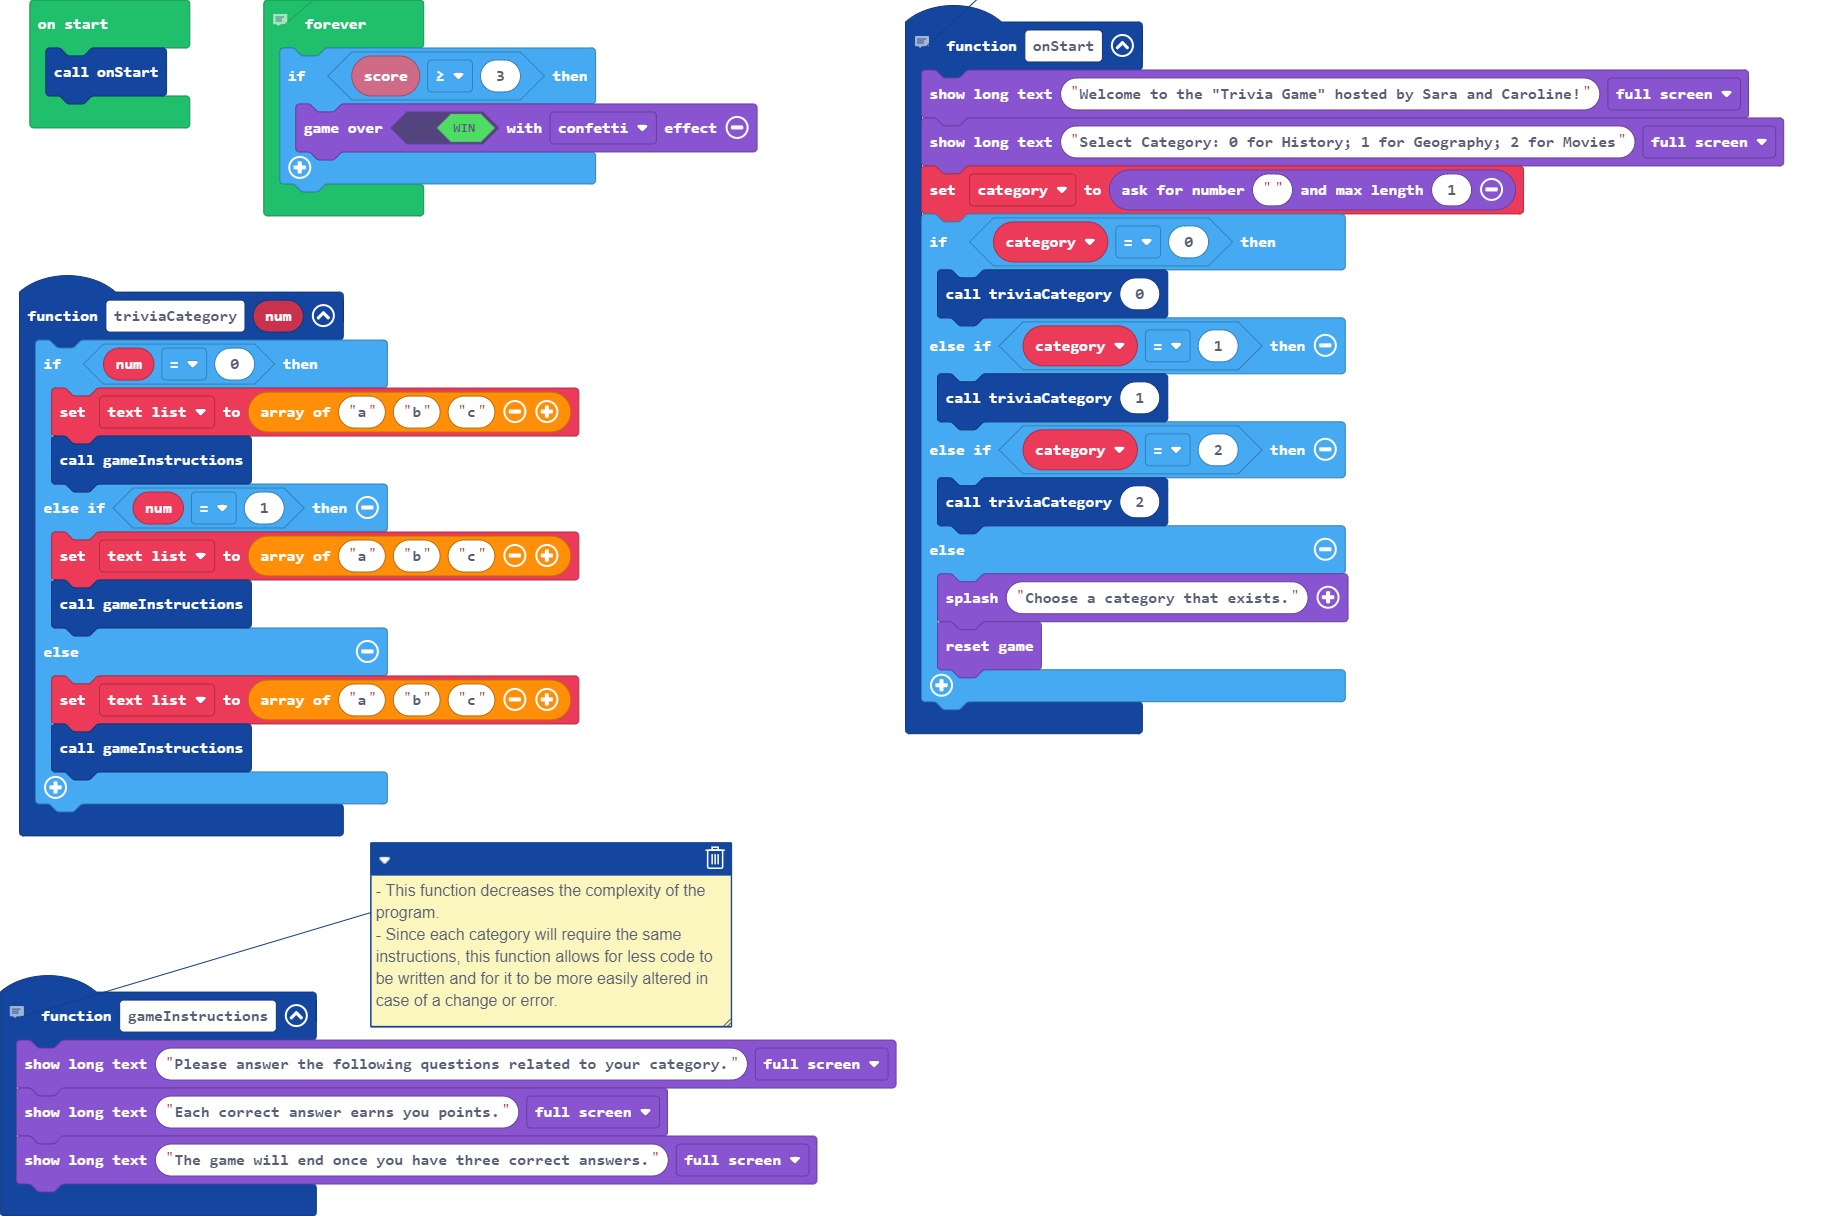
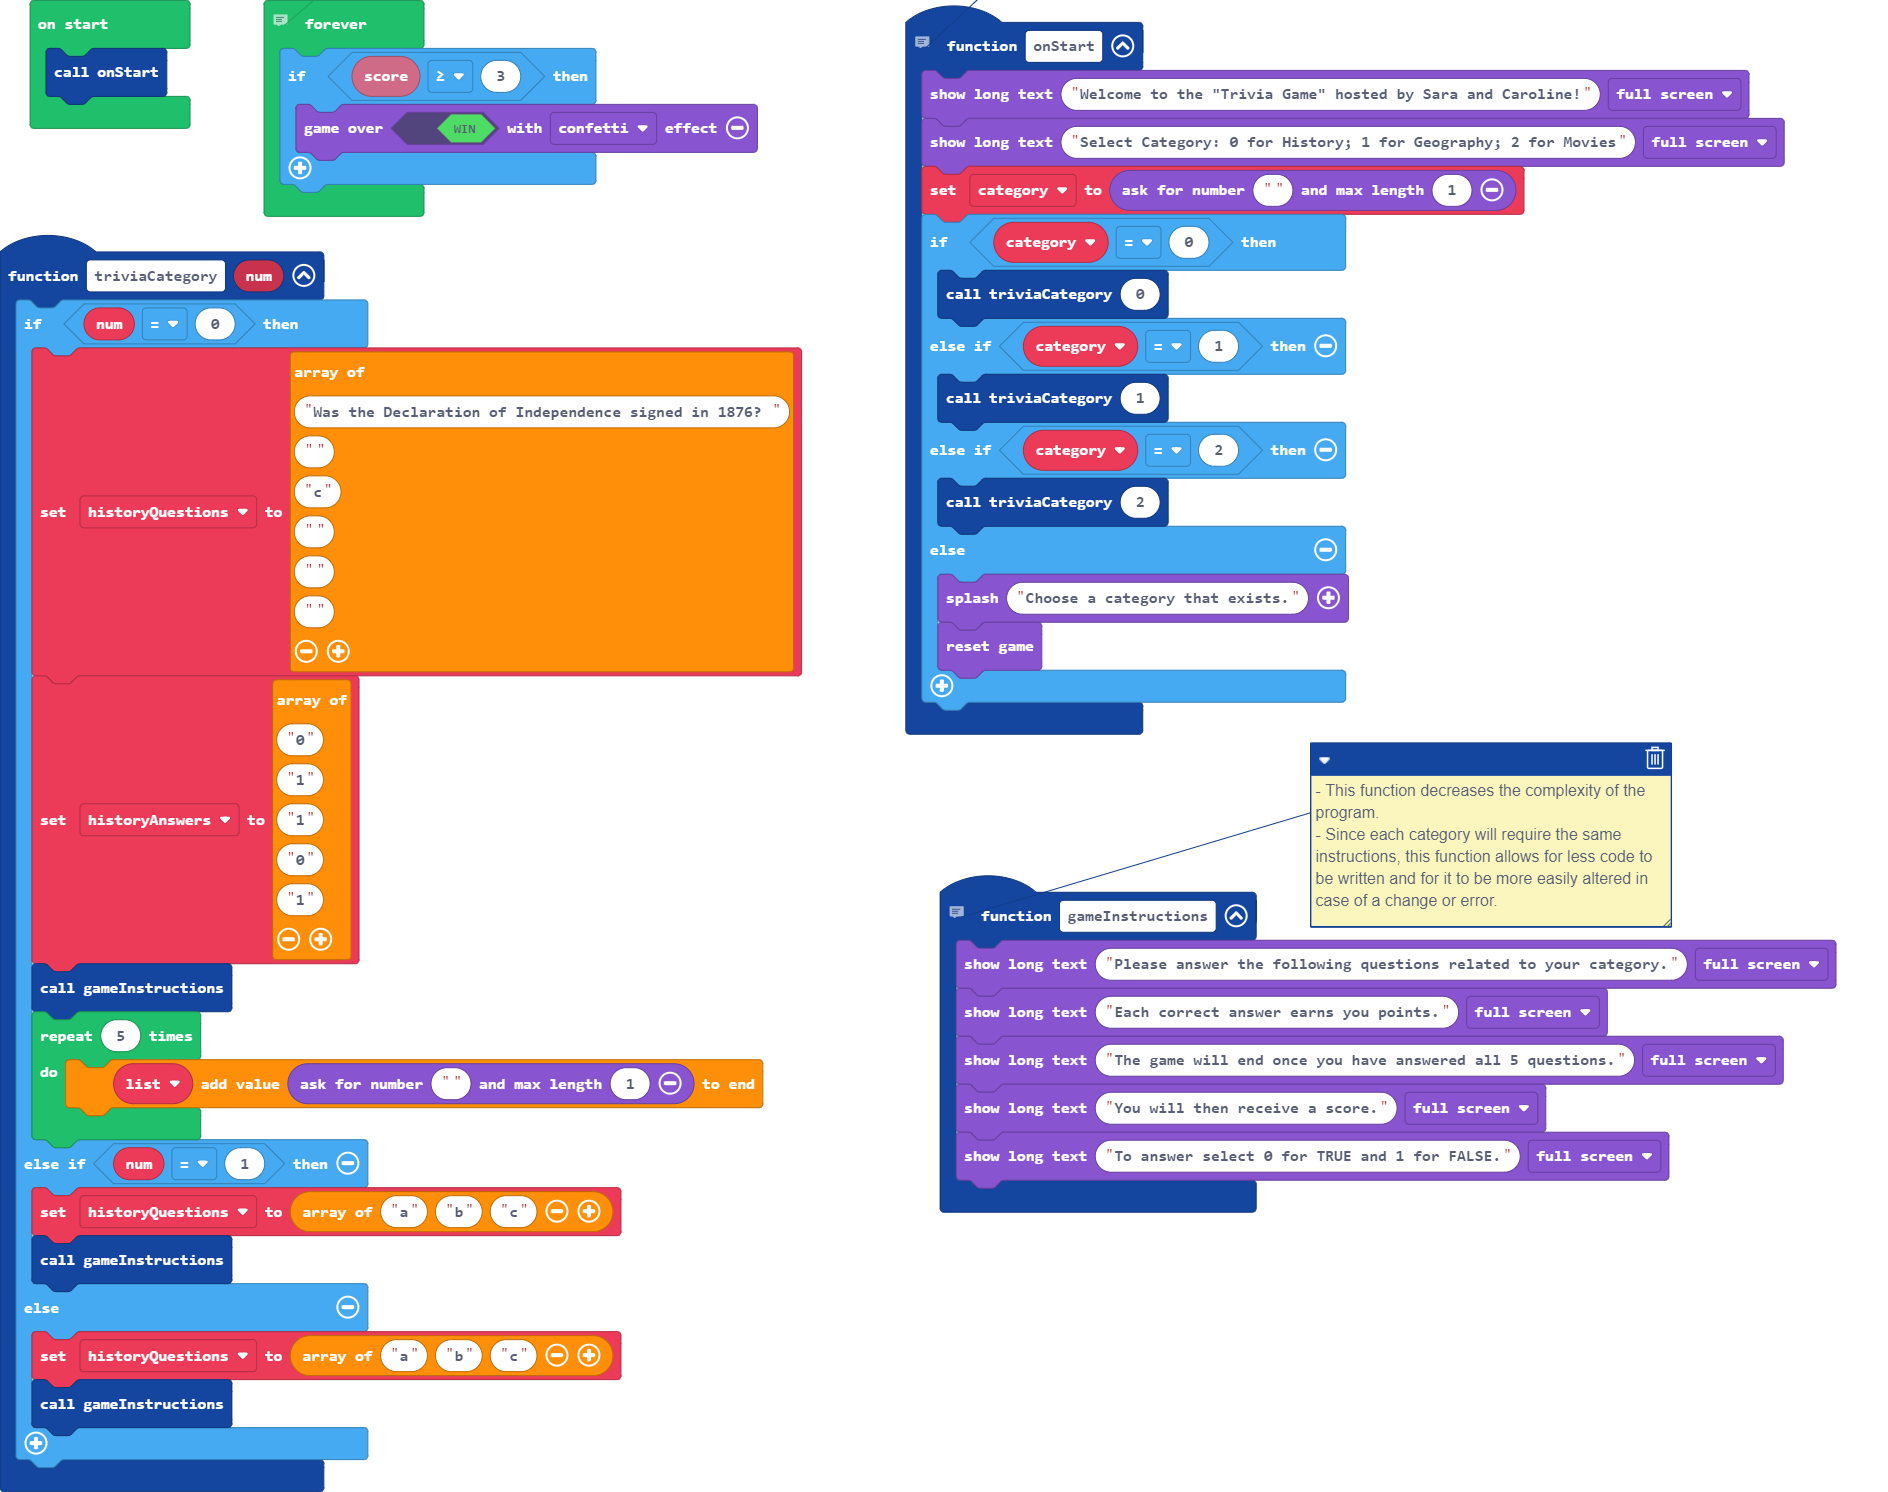
Update main.blocks, main.ts

diff --git a/main.ts b/main.ts
@@ -3,7 +3,9 @@
 function gameInstructions () {
     game.showLongText("Please answer the following questions related to your category.", DialogLayout.Full)
     game.showLongText("Each correct answer earns you points.", DialogLayout.Full)
-    game.showLongText("The game will end once you have three correct answers.", DialogLayout.Full)
+    game.showLongText("The game will end once you have answered all 5 questions.", DialogLayout.Full)
+    game.showLongText("You will then receive a score.", DialogLayout.Full)
+    game.showLongText("To answer select 0 for TRUE and 1 for FALSE.", DialogLayout.Full)
 }
 // - this function contains all the lines of code needed to initiate the game
 // - this shortens the code under the onStart block
@@ -29,17 +31,36 @@ function onStart () {
 }
 function triviaCategory (num: number) {
     if (num == 0) {
-        text_list = ["a", "b", "c"]
+        historyQuestions = [
+        "Was the Declaration of Independence signed in 1876? ",
+        "",
+        "c",
+        "",
+        "",
+        ""
+        ]
+        historyAnswers = [
+        "0",
+        "1",
+        "1",
+        "0",
+        "1"
+        ]
         gameInstructions()
+        for (let index = 0; index < 5; index++) {
+            let list: number[] = []
+            list.push(game.askForNumber("", 1))
+        }
     } else if (num == 1) {
-        text_list = ["a", "b", "c"]
+        historyQuestions = ["a", "b", "c"]
         gameInstructions()
     } else {
-        text_list = ["a", "b", "c"]
+        historyQuestions = ["a", "b", "c"]
         gameInstructions()
     }
 }
-let text_list: string[] = []
+let historyAnswers: string[] = []
+let historyQuestions: string[] = []
 let category = 0
 onStart()
 // - this iteration happens throughout the game
